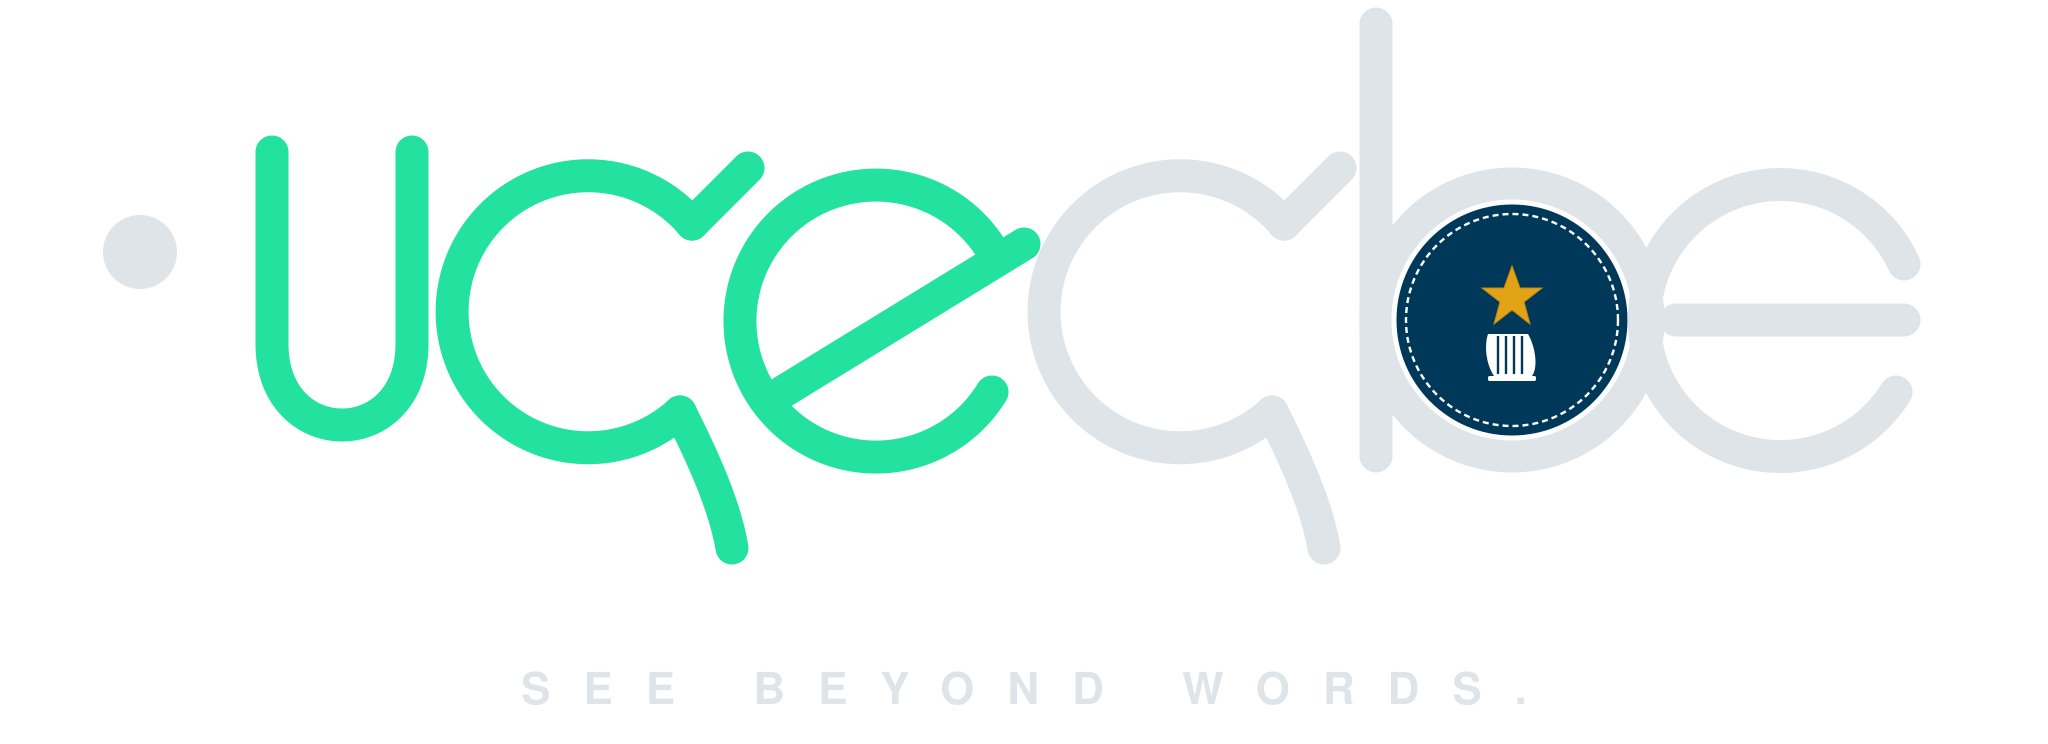
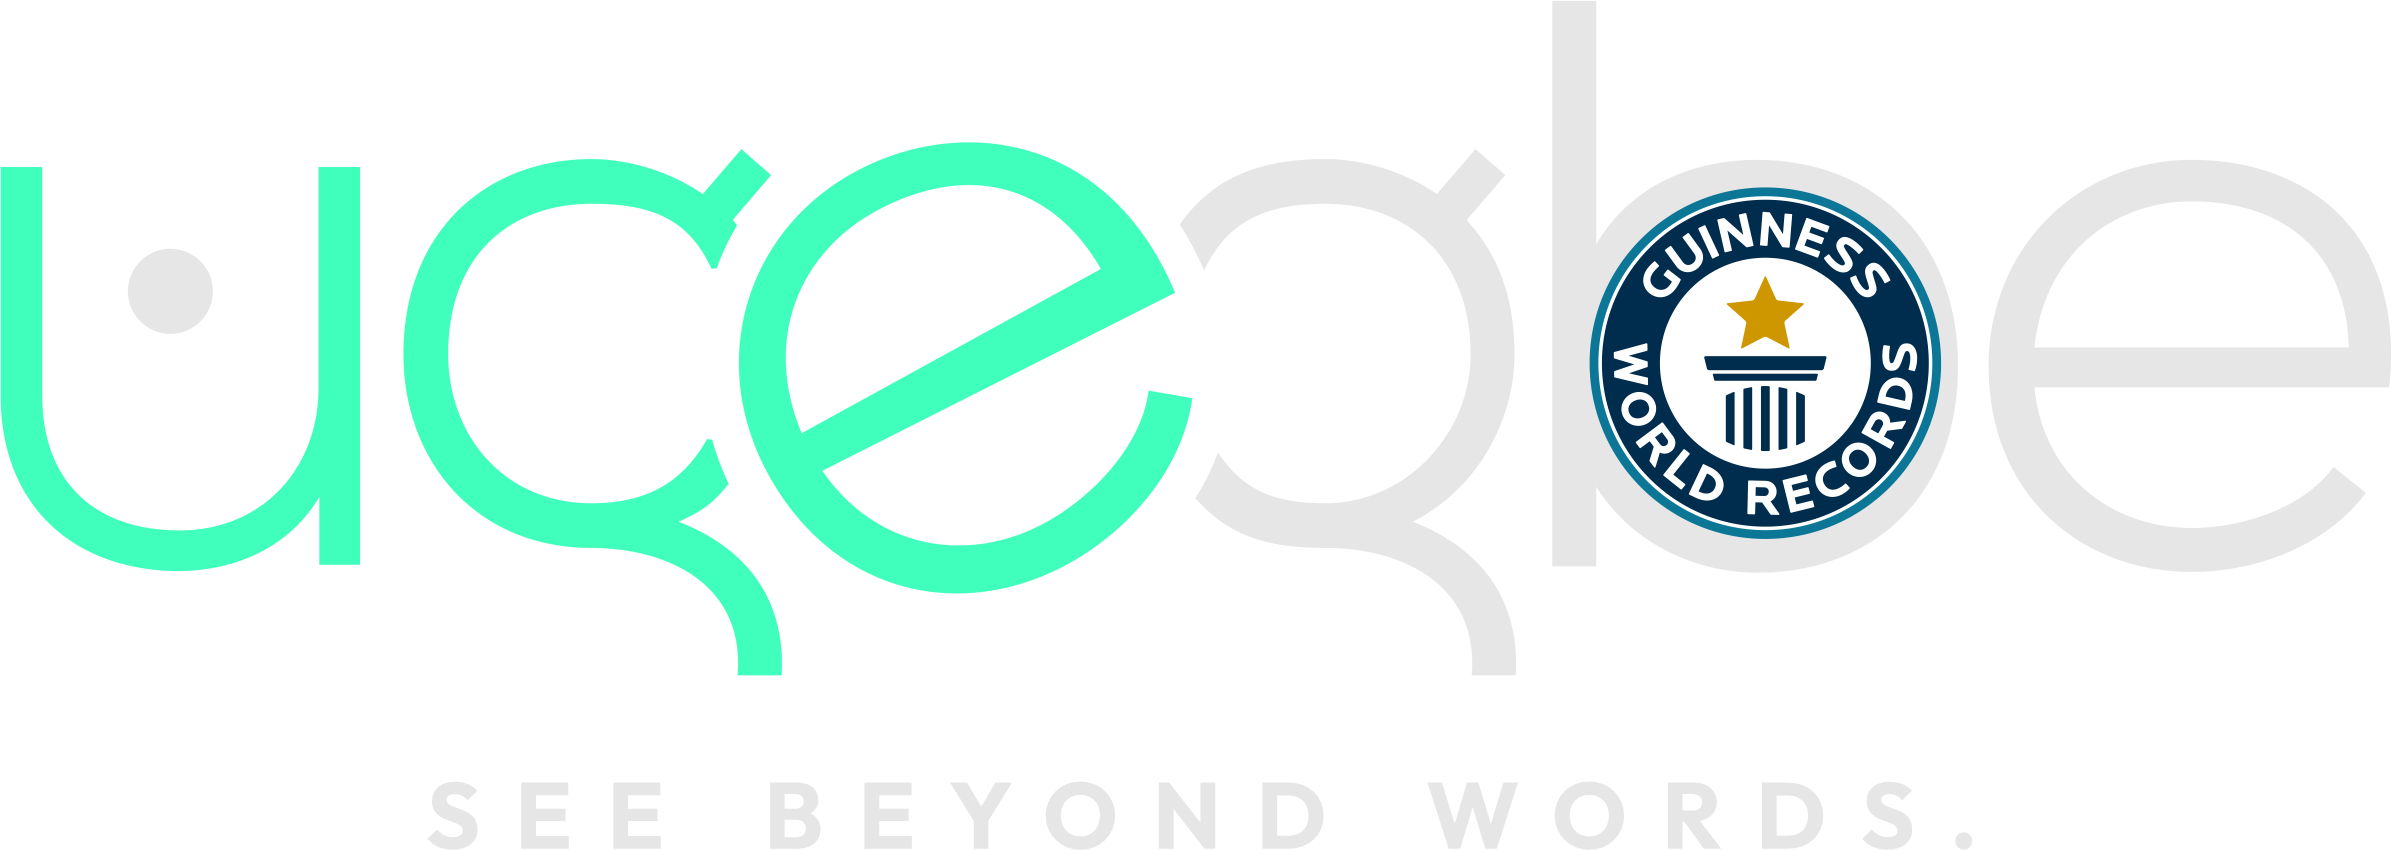
Refactor code structure for improved readability and maintainability

Changed region(s): [[0.0, 0.0, 1.0, 0.8038], [0.1562, 0.8965, 0.8438, 1.0]]

diff --git a/src/components/common/UgegbeBrandLogo.tsx b/src/components/common/UgegbeBrandLogo.tsx
@@ -22,10 +22,7 @@ export const UgegbeBrandLogo: React.FC<UgegbeBrandLogoProps> = ({
     xl: 'h-24 sm:h-32',
   }[size];
 
-  // Directly load the uploaded logo image file
-  const logoSrc = showTagline
-    ? '/UGEGBE X GWR_Light.png'
-    : '/UGEGBE X GWR_Light_Compact.png';
+  const logoSrc = '/UGEGBE X GWR_Dark.png';
 
   return (
     <div className={`inline-flex items-center justify-center select-none ${className}`}>
